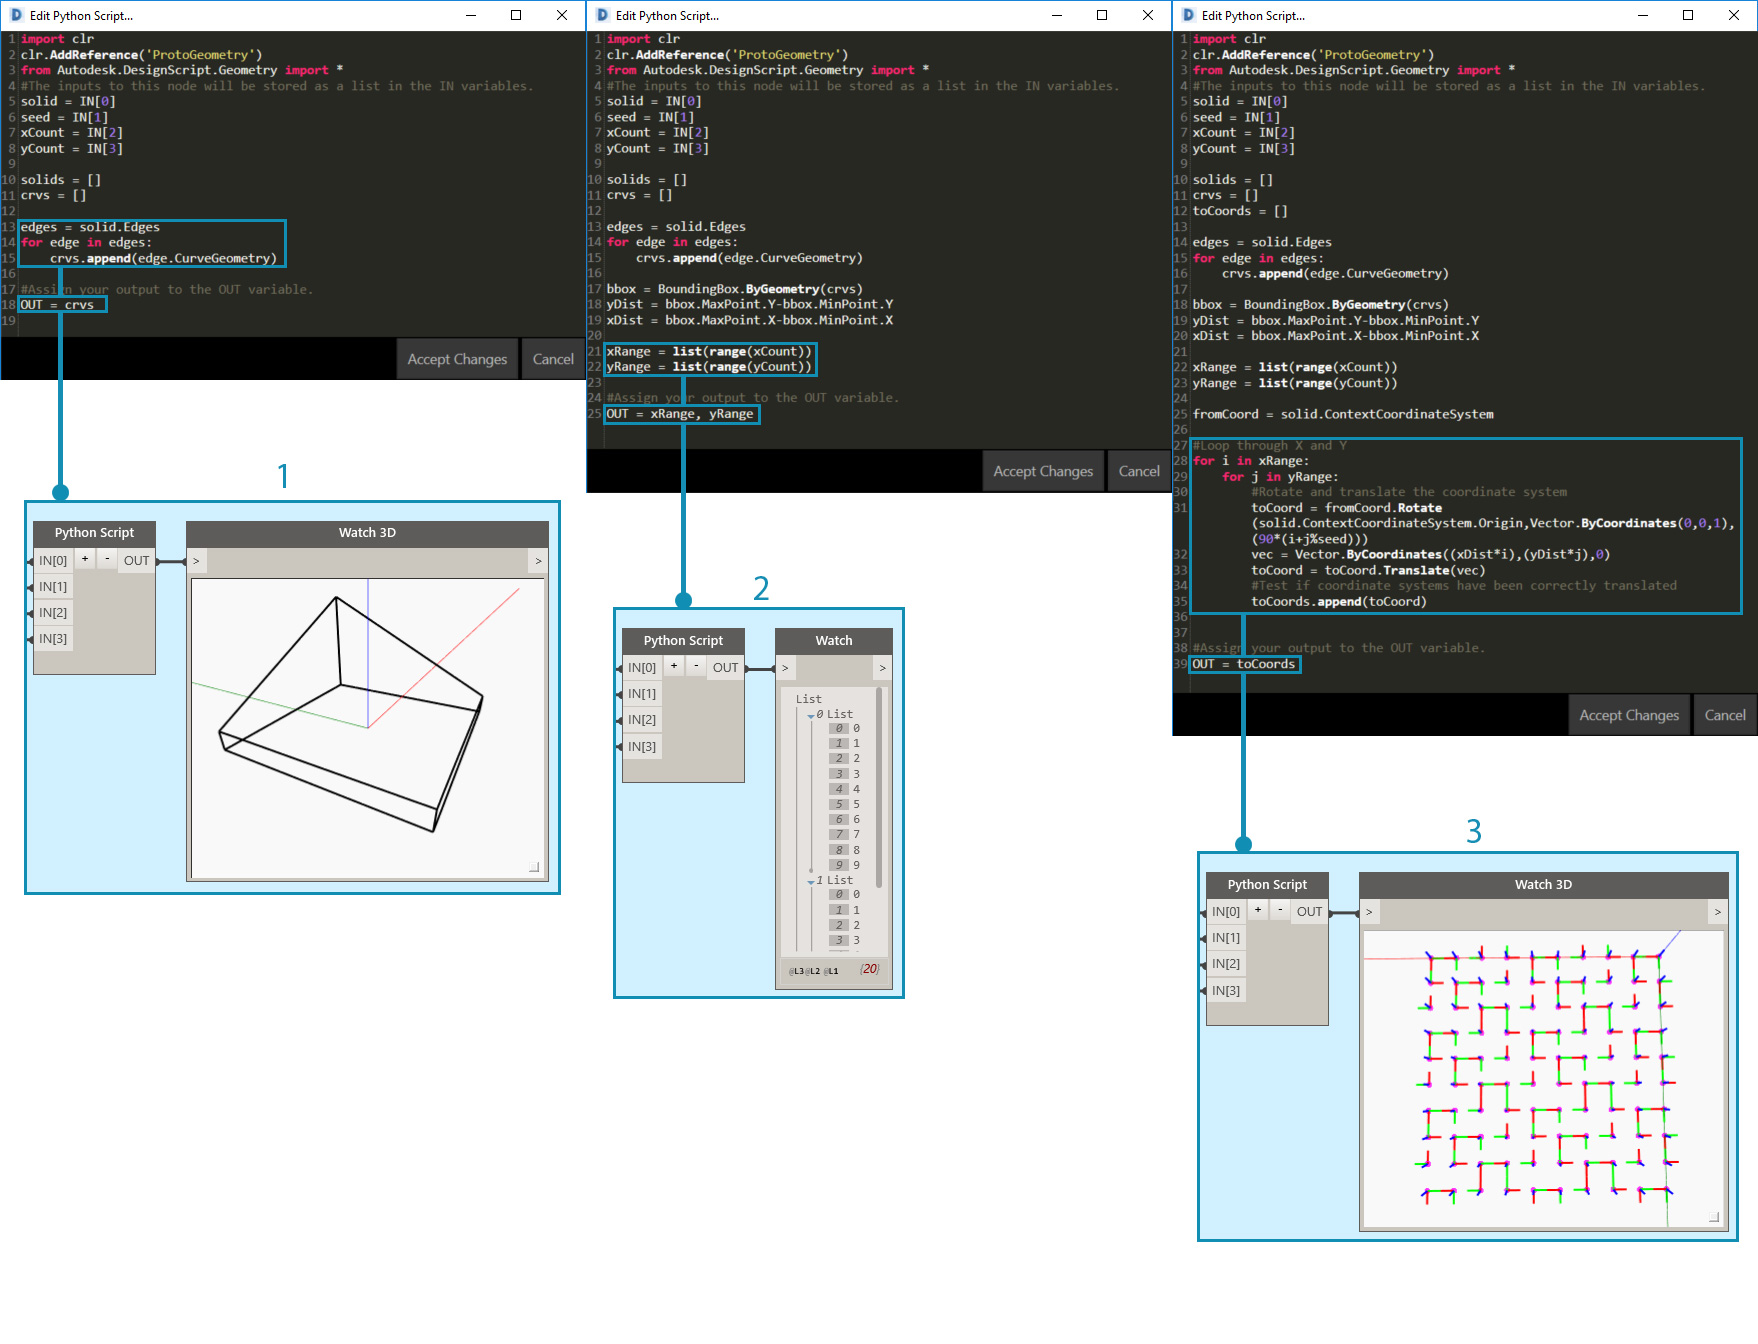
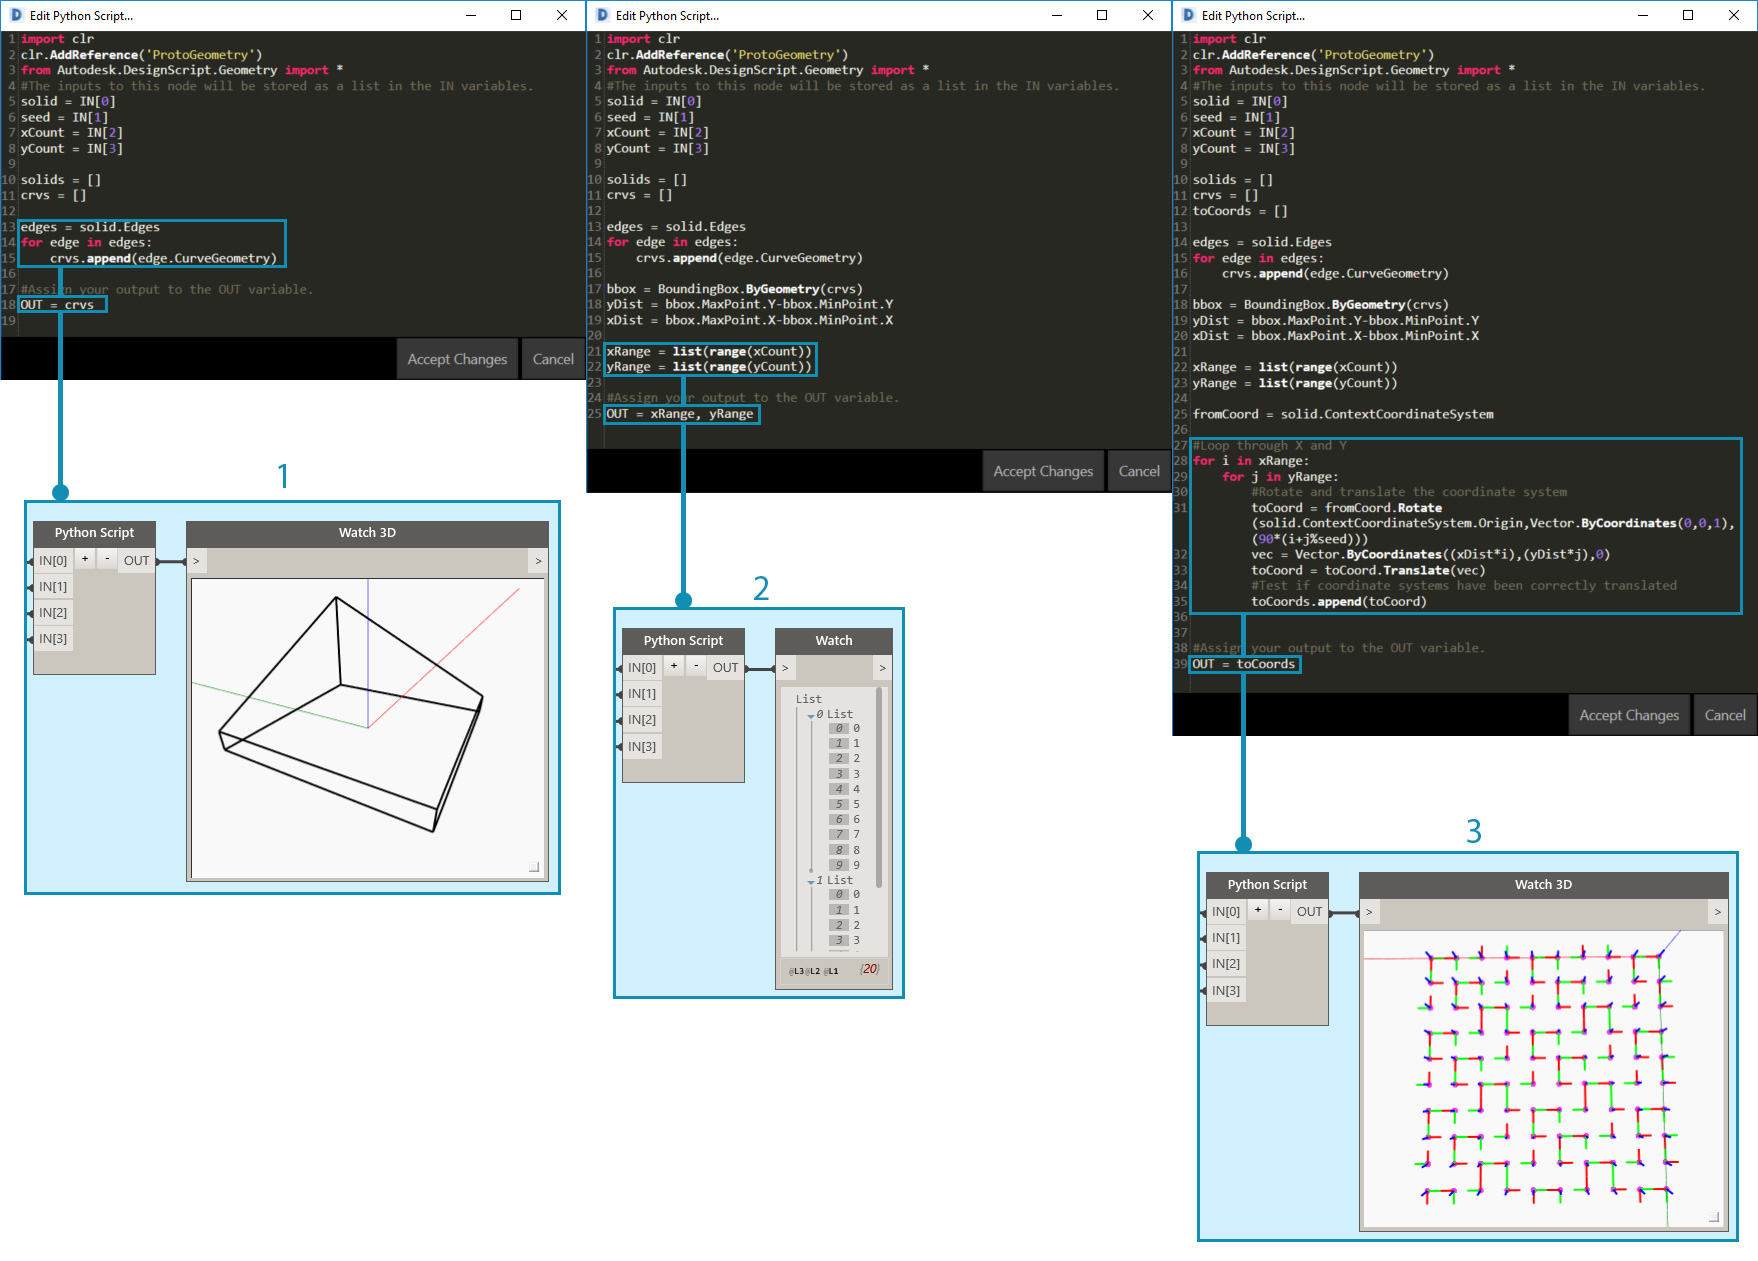
Creates 12_Best-Practice/images/12-1/debug.jpg
Auto commit by GitBook Editor

diff --git a/12_Best-Practice/12-1_Scripting-Strategies.md b/12_Best-Practice/12-1_Scripting-Strategies.md
@@ -195,6 +195,12 @@ While developing Python scripts in Dynamo, it is wise to constantly make sure th
 
 ![modules](images/12-1/flex.jpg)
 
+> This code is from the example in [Python Node](http://dynamoprimer.com/en/09_Custom-Nodes/9-4_Python.html).
+
+> 1. Check that all edges of the solid are being returned as curves to create a bounding box around.
+> 2. Check that our Count inputs are successfully being converted to Ranges.
+> 3. Check that coordinate systems have been properly translated and rotated in this loop.
+
 **Anticipate “edge cases”:**
 
 * While scripting, crank your input parameters to the minimum and maximum values of their allotted domain to check if the program still functions under extreme conditions.
@@ -211,7 +217,7 @@ While developing Python scripts in Dynamo, it is wise to constantly make sure th
 
 **Use watch bubble:**
 
-* Check the data returned at different places in the code by assigning it to the OUT variable.
+* Check the data returned at different places in the code by assigning it to the OUT variable, similar to the concept of flexing the program.
 
 **Write meaningful comments:**
 
@@ -235,13 +241,17 @@ for i in range(xCount):
 
 **Leverage the code's modularity:**
 
-* The source of an issue can be isolated if the code is modular.
+* The source of an issue can be isolated to certain modules.
 
 * Once the faulty module has been identified, fixing the problem is considerably simpler.
 
 * When a program must be modified, code that has been developed in modules will be much easier to change:
 
-  * You can link new or debugged modules to an existing program with the confidence that the rest of the program will not change.
+  * You can insert new or debugged modules to an existing program with the confidence that the rest of the program will not change.
+
+![](images/12-1/debug.jpg)
+
+> This code is from the example in [Python Node](http://dynamoprimer.com/en/09_Custom-Nodes/9-4_Python.html).
 
 ### Exercise - Steepest Path
 
